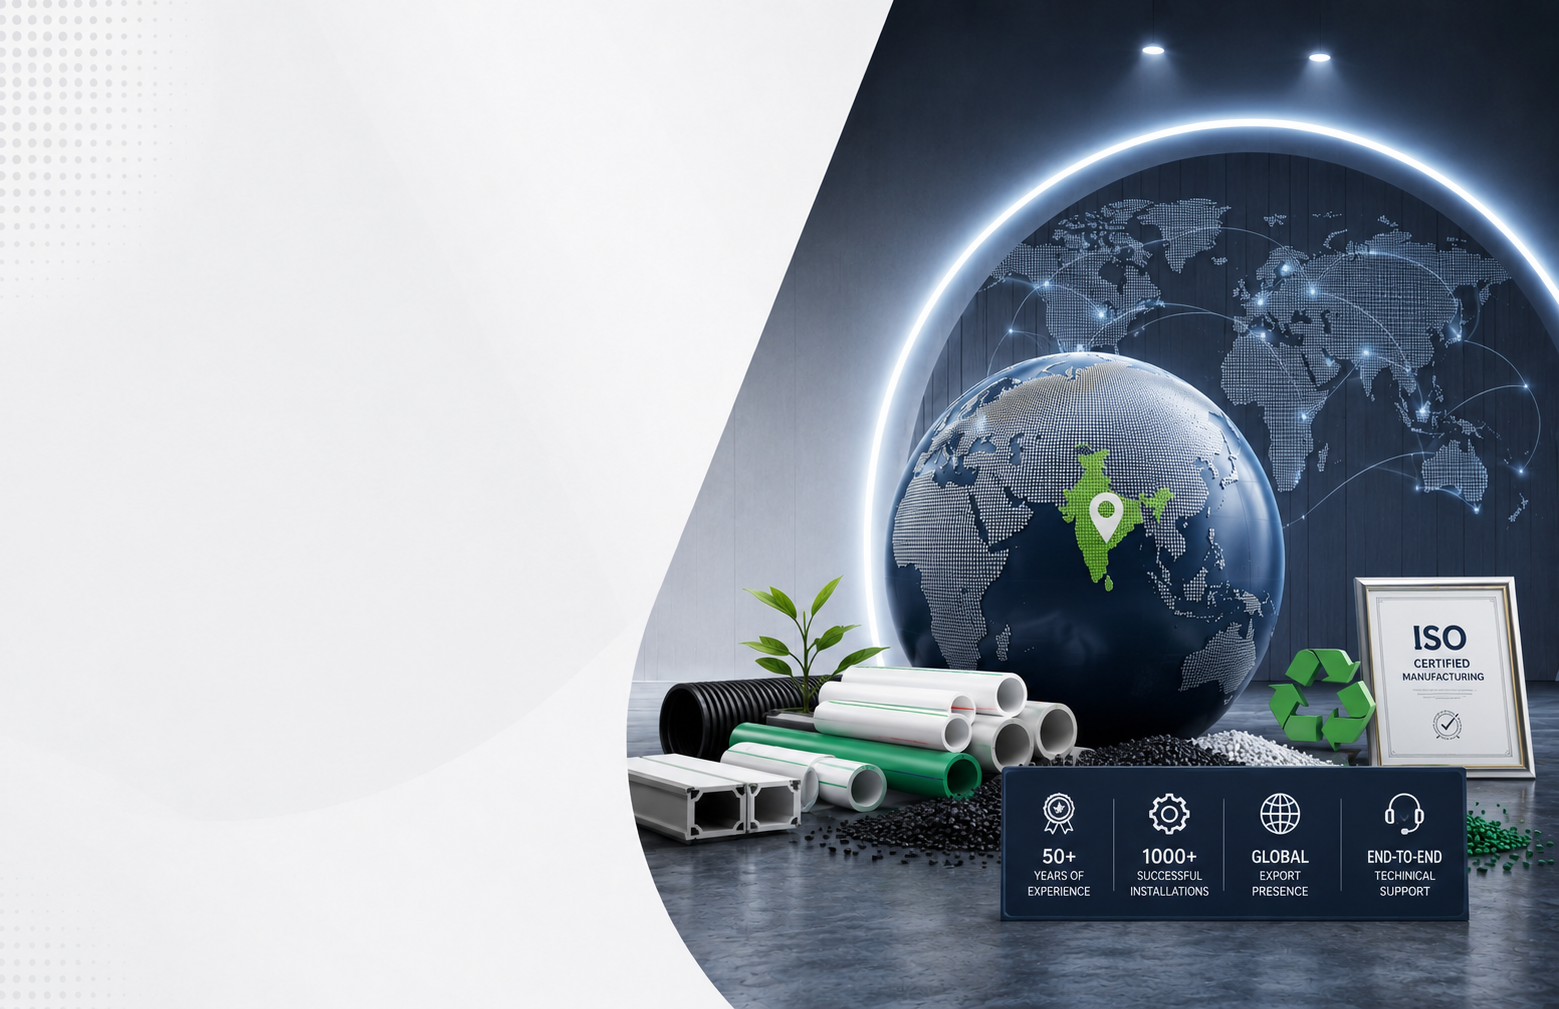
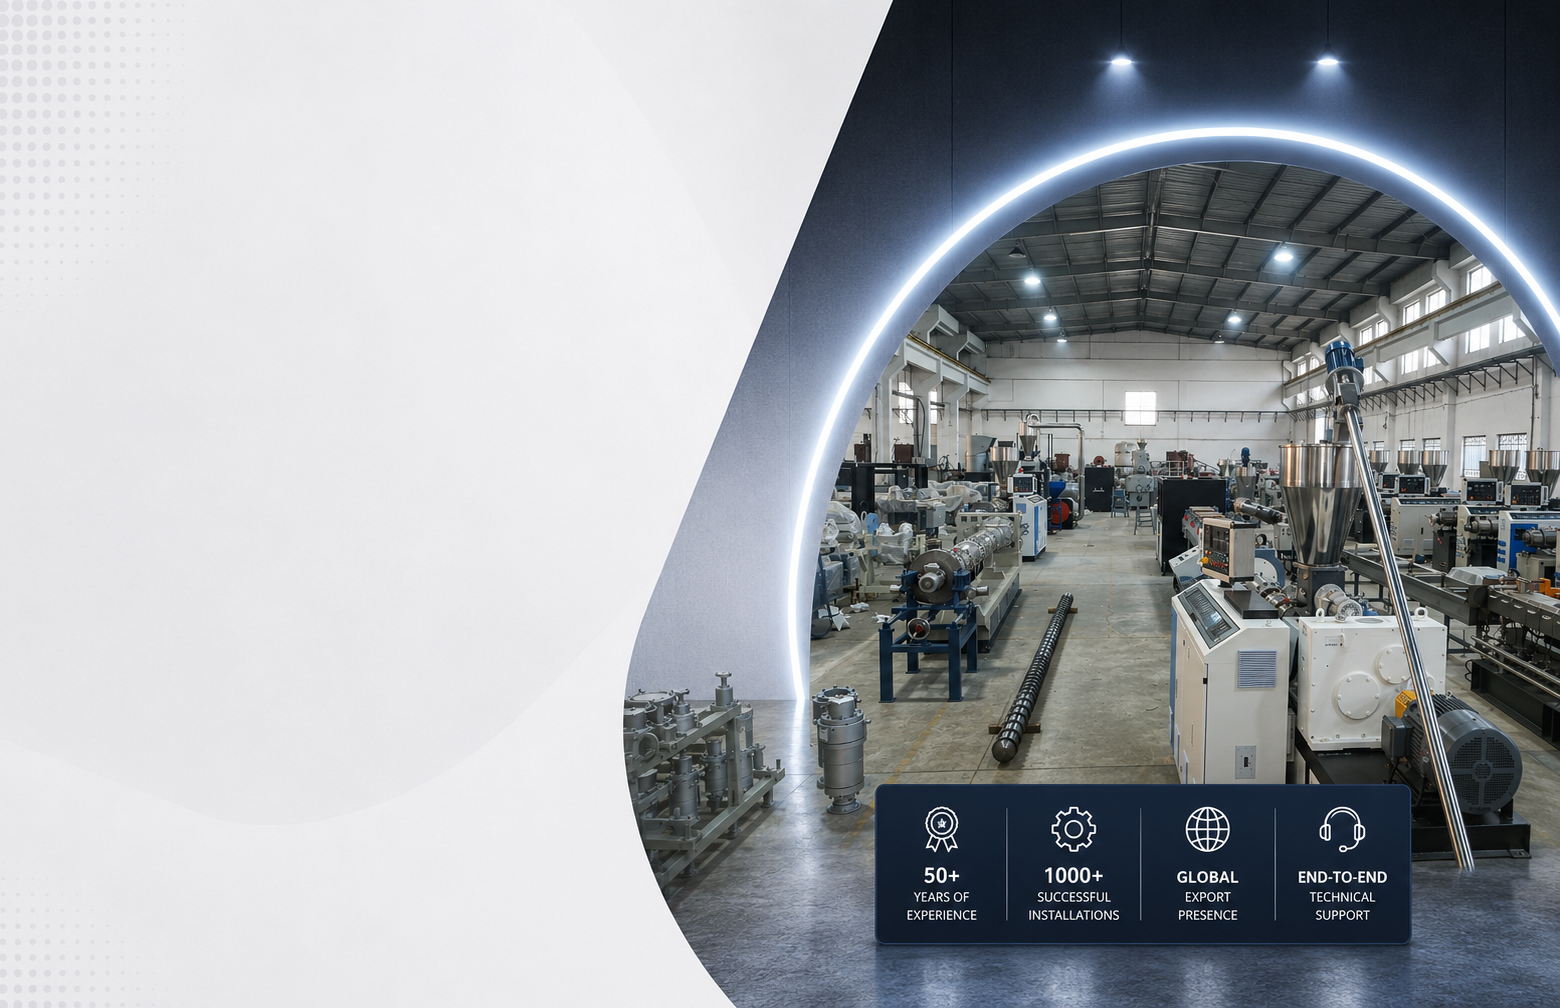
changes update

diff --git a/frontend/app/clients/page.tsx b/frontend/app/clients/page.tsx
@@ -90,7 +90,7 @@ export default function Clients() {
                       alt={client.name}
                       fill
                       sizes="(max-width:768px) 100vw,25vw"
-                      className="object-contain p-5 grayscale transition-all duration-500 group-hover:scale-110 group-hover:grayscale-0"
+                      className="object-contain p-5 transition-all duration-500 group-hover:scale-110"
                     />
                   </div>
                 </div>

diff --git a/frontend/app/page.tsx b/frontend/app/page.tsx
@@ -166,7 +166,7 @@ const heroSlides = [
     desc: "Delivering complete turnkey solutions for PVC, HDPE, PPR, Recycling, Compounding & Profile Extrusion industries with 1000+ successful installations, global exports, and end-to-end technical support.",
   },
   {
-    image: "/home-hero.png",
+    image: "/home-hero1.png",
     tag: "Extrusion Redefined",
     title: ["Precision.", "Performance.", "Possibilities."],
     desc: "Advanced plastic extrusion machinery engineered for superior output and reliability.",